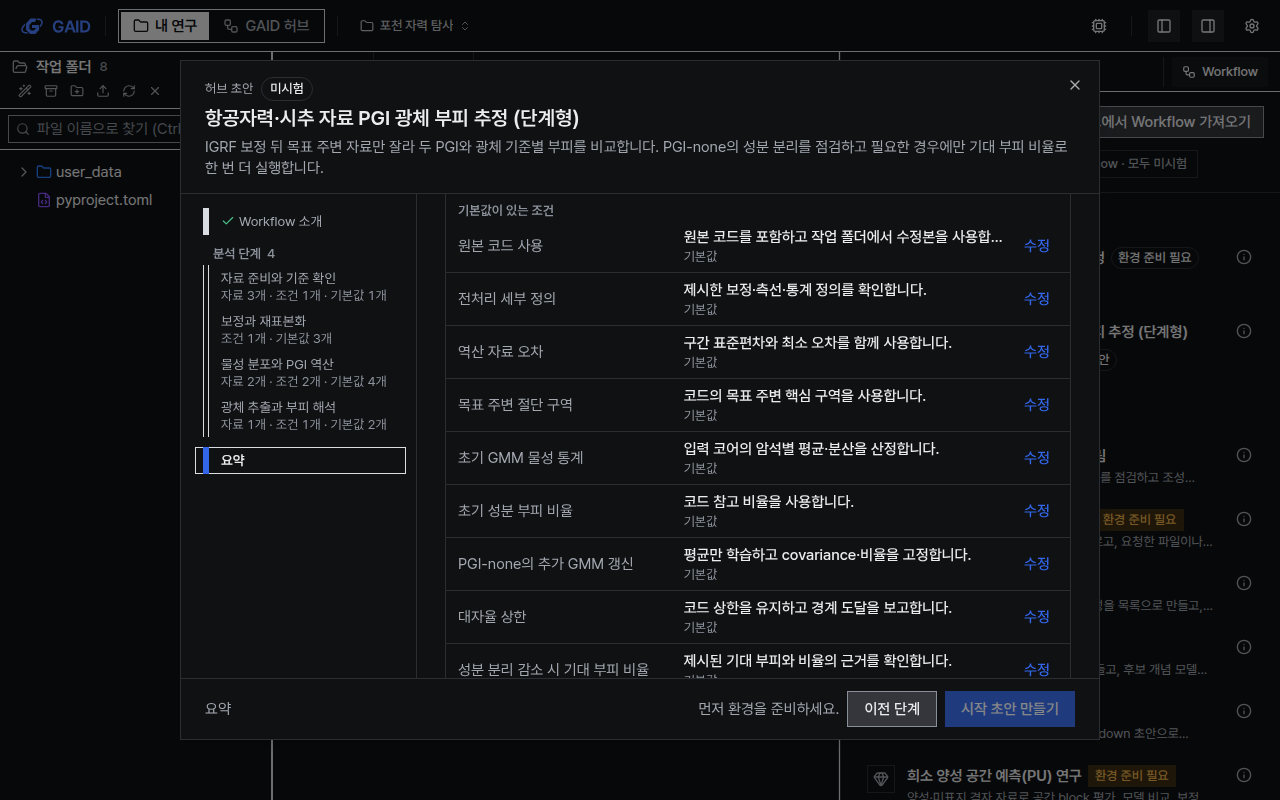
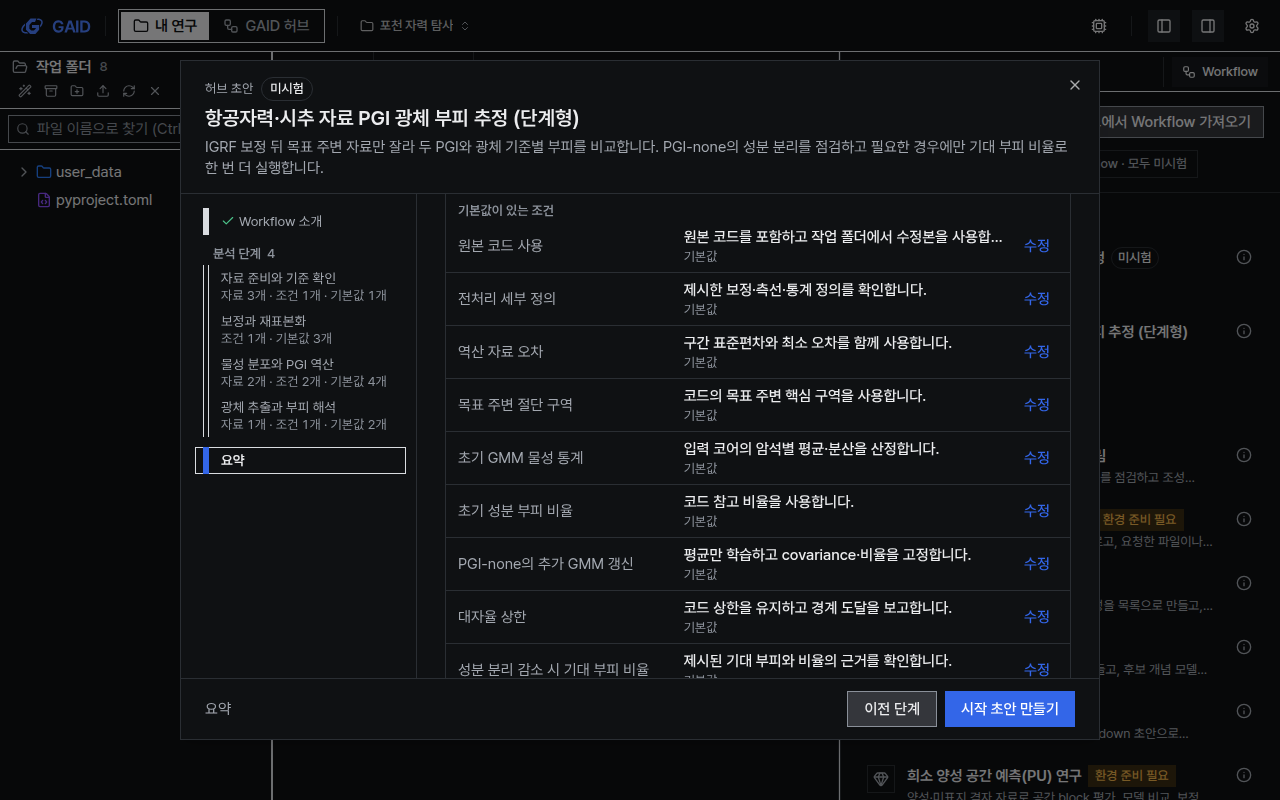
gaid-stages-window: stage shots from the real summary after B

Changed region(s): [[0.7188, 0.8438, 0.8438, 0.9062], [0.5312, 0.875, 0.6562, 0.9062], [0.875, 0.3125, 0.9375, 0.3438]]

diff --git a/docs/tasks/gaid-workflow-stages--gaid-stages-window.md b/docs/tasks/gaid-workflow-stages--gaid-stages-window.md
@@ -1,7 +1,7 @@
 ---
 format: 1
 status: active
-updated: 2026-10-23T13:29:29Z
+updated: 2026-10-23T14:53:13Z
[1 lines of base64/hex data omitted]
 branch: task/gaid-workflow-stages--gaid-stages-window
 target: task/gaid-workflow-stages
@@ -85,10 +85,8 @@ raw.githubusercontent.com (use `gh api` or codeload).
 <!-- task:closed -->
 Closed 2026-10-23T13:18:56Z: ready; the parent gaid-workflow-stages integrates it. No further steps in this unit; `task complete` verifies jobs and rollout and reports the outcome. Residual work: no open items recorded.
 
-Blocked: `task finish` scripts/check fails 3 server tests outside this unit (geo-hub-shared x2, geo-authoring-package x1):
-the authoring Workflow schema in `server/src/geo/authoring/workflow.ts` (package B) rejects `steps[].inputIds`, which the
-parent contract commit 9949b08d adds in `workflowDocFor`. This unit changes no server/geo files. Rerun `task finish` once the
-parent branch carries B's schema update (log: ~/.local/state/backbone/check-logs/beb99bb9d216ecd9/check-8ayiau8l.log).
+- Synced with the parent after B (3ff52ae5); the real `/geo/methods` summary carries `multiple`/`default`, stage shots retaken
+  without the route patch; finish rerun.
 ## Failed approaches
 ## Notes and decisions
 (To close an existing ledger item when this top-level unit completes, add one literal `Closes: <slug>#<n>` line.)
